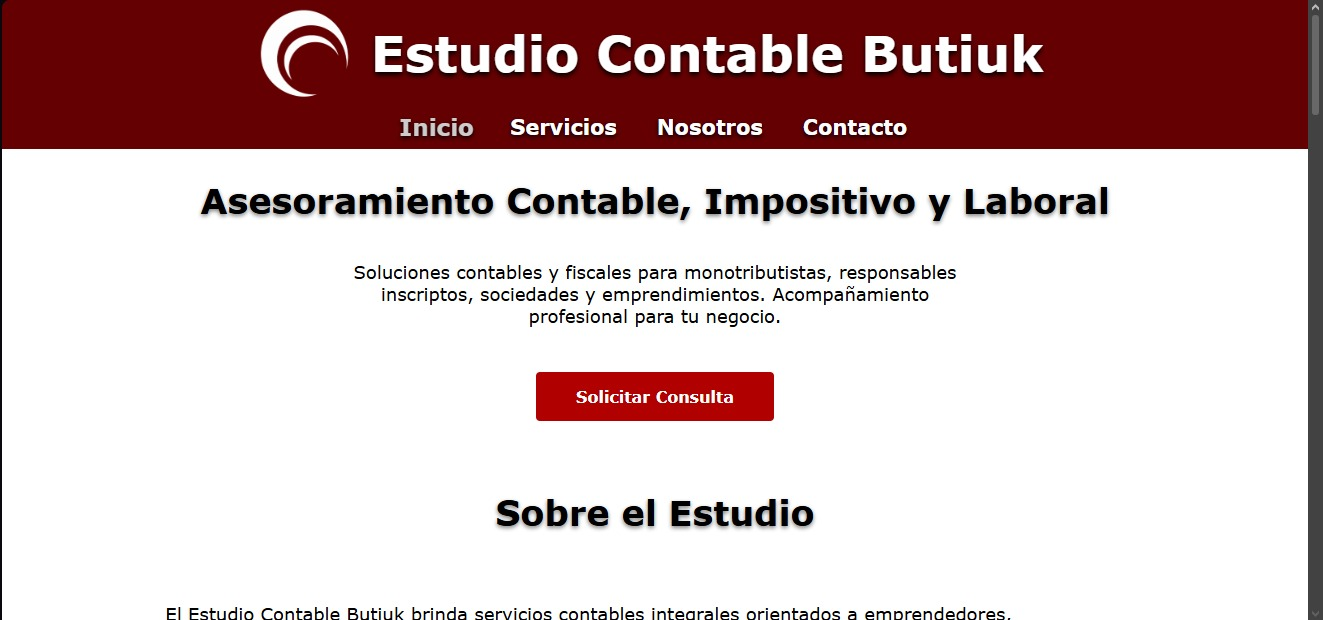
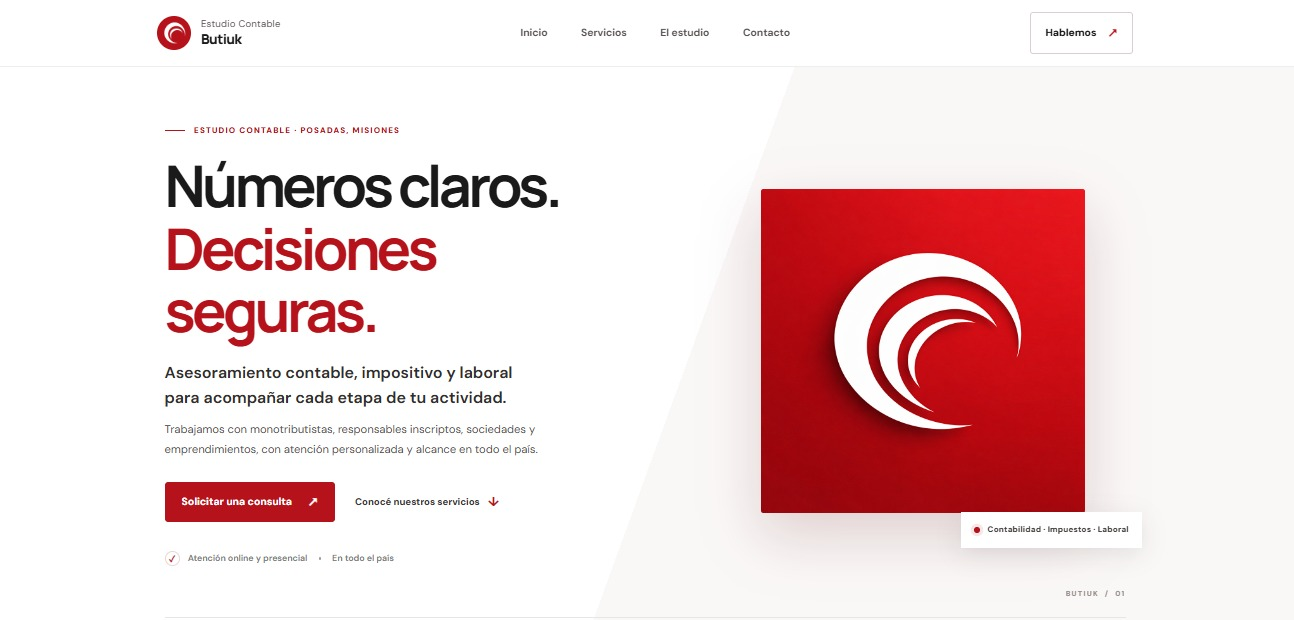
reintegro de webs viejas

diff --git a/index.html b/index.html
@@ -181,38 +181,47 @@
         <div class="projects-container">
 
             <!-- Proyecto PZ -->
-            <!-- <div class="project-card autoShow">
-                <img src="media/cap-pzteam.jpeg" alt="PZ Team">
+
+            <div class="project-card project-card--featured autoShow">
+                <div class="browser-frame">
+                    <div class="browser-bar" aria-hidden="true"><i></i><i></i><i></i><span>pz-team.vercel.app</span>
+                    </div><img src="media/cap-pzteam.jpeg" alt="Sitio Web Moderno - Artes Marciales">
+                </div>
 
                 <div class="project-content">
                     <h3>Sitio web – PZ Team</h3>
                     <p>
                         Página web orientada a atraer nuevos alumnos, mostrando horarios, ubicación y modalidades de
                         entrenamiento de forma clara y facilitando el contacto directo por WhatsApp.
+                    </p>
 
                     <div class="result">
-
-
                         <p>✔ Optimizado para celulares</p>
                         <p>✔ Enfocado en generar consultas de nuevos alumnos</p>
                     </div>
 
                     <!-- <p class="tech">
                         HTML · CSS · Responsive
-                    </p>
+                    </p> -->
 
                     <div class="project-buttons">
-                        <a href="https://pz-team.vercel.app/index.html#top">Ver página</a>
+                        <a href="https://pz-team.vercel.app" target="_blank">Ver página</a>
                     </div>
                 </div>
-            </div> -->
+            </div>
 
             <!-- Proyecto Fernanda -->
-            <!-- <div class="project-card autoShow">
-                <img src="media/cap-fernanda.jpeg" alt="Estudio contable">
+
+
+            <div class="project-card project-card--featured autoShow">
+                <div class="browser-frame">
+                    <div class="browser-bar" aria-hidden="true">
+                        <i></i><i></i><i></i><span>estudiocontablebutiuk.vercel.app</span>
+                    </div><img src="media/cap-fernanda.jpeg" alt="Landing Page Tradicional de Estudio Contable">
+                </div>
 
                 <div class="project-content">
-                    <h3>Sitio web – Estudio Contable</h3>
+                    <h3>Estudio Contable Butiuk - Landing Page Profesional / Tradicional</h3>
                     <p>
                         Página web institucional diseñada para transmitir confianza, organizar múltiples servicios de
                         forma clara y facilitar el contacto de potenciales clientes.
@@ -222,28 +231,32 @@
                         <p>✔ Optimizado para celulares</p>
                         <p>✔ Enfocado en generar consultas profesionales</p>
                         <p>✔ Presentación clara de servicios contables y laborales</p>
-
                     </div>
 
                     <!-- <p class="tech">
                         HTML · CSS · Responsive
-                    </p>
+                    </p> -->
 
                     <div class="project-buttons">
-                        <a href="https://estudiocontablebutiuk.vercel.app">Ver página</a>
+                        <a href="https://estudiocontablebutiuk.vercel.app" target="_blank">Ver página</a>
                     </div>
                 </div>
-            </div> -->
+            </div>
 
             <!-- Proyecto Bere -->
 
             <div class="project-card project-card--featured autoShow">
-                <div class="browser-frame"><div class="browser-bar" aria-hidden="true"><i></i><i></i><i></i><span>jonica-accesories.vercel.app</span></div><img src="media/captura-jonica.jpeg" alt="Catálogo de joyas"></div>
+                <div class="browser-frame">
+                    <div class="browser-bar" aria-hidden="true">
+                        <i></i><i></i><i></i><span>jonica-accesories.vercel.app</span>
+                    </div><img src="media/captura-jonica.jpeg" alt="Catálogo de joyas">
+                </div>
 
                 <div class="project-content">
                     <h3>Catálogo web – Tienda de Joyas</h3>
                     <p>
-                        Catálogo online diseñado para mostrar productos con precios visibles, organizar el contenido por
+                        Catálogo online diseñado para mostrar productos con precios visibles, organizar el
+                        contenido por
                         categorías y facilitar consultas rápidas mediante WhatsApp e Instagram.
                     </p>
 
@@ -258,18 +271,24 @@
                     </p> -->
 
                     <div class="project-buttons">
-                        <a href="https://jonica-accesories.vercel.app/index.html#top" target="_blank">Ver página</a>
+                        <a href="https://jonica-accesories.vercel.app/index.html#top" target="_blank">Ver
+                            página</a>
                     </div>
                 </div>
             </div>
 
             <div class="project-card autoShow">
-                <div class="browser-frame"><div class="browser-bar" aria-hidden="true"><i></i><i></i><i></i><span>estudiocontablezl.com</span></div><img src="media/cap-zl.jpeg" alt="Estudio Contable"></div>
+                <div class="browser-frame">
+                    <div class="browser-bar" aria-hidden="true">
+                        <i></i><i></i><i></i><span>estudiocontablezl.com</span>
+                    </div><img src="media/cap-zl.jpeg" alt="Estudio Contable">
+                </div>
 
                 <div class="project-content">
-                    <h3>Estudio Contable ZL - Landing Page Profesional</h3>
+                    <h3>Estudio Contable ZL - Landing Page Profesional / Moderna</h3>
                     <p>
-                        Diseño y desarrollo de una presencia digital orientada a comunicar el diferencial del estudio y
+                        Diseño y desarrollo de una presencia digital orientada a comunicar el diferencial del
+                        estudio y
                         generar nuevas oportunidades comerciales.
                     </p>
 
